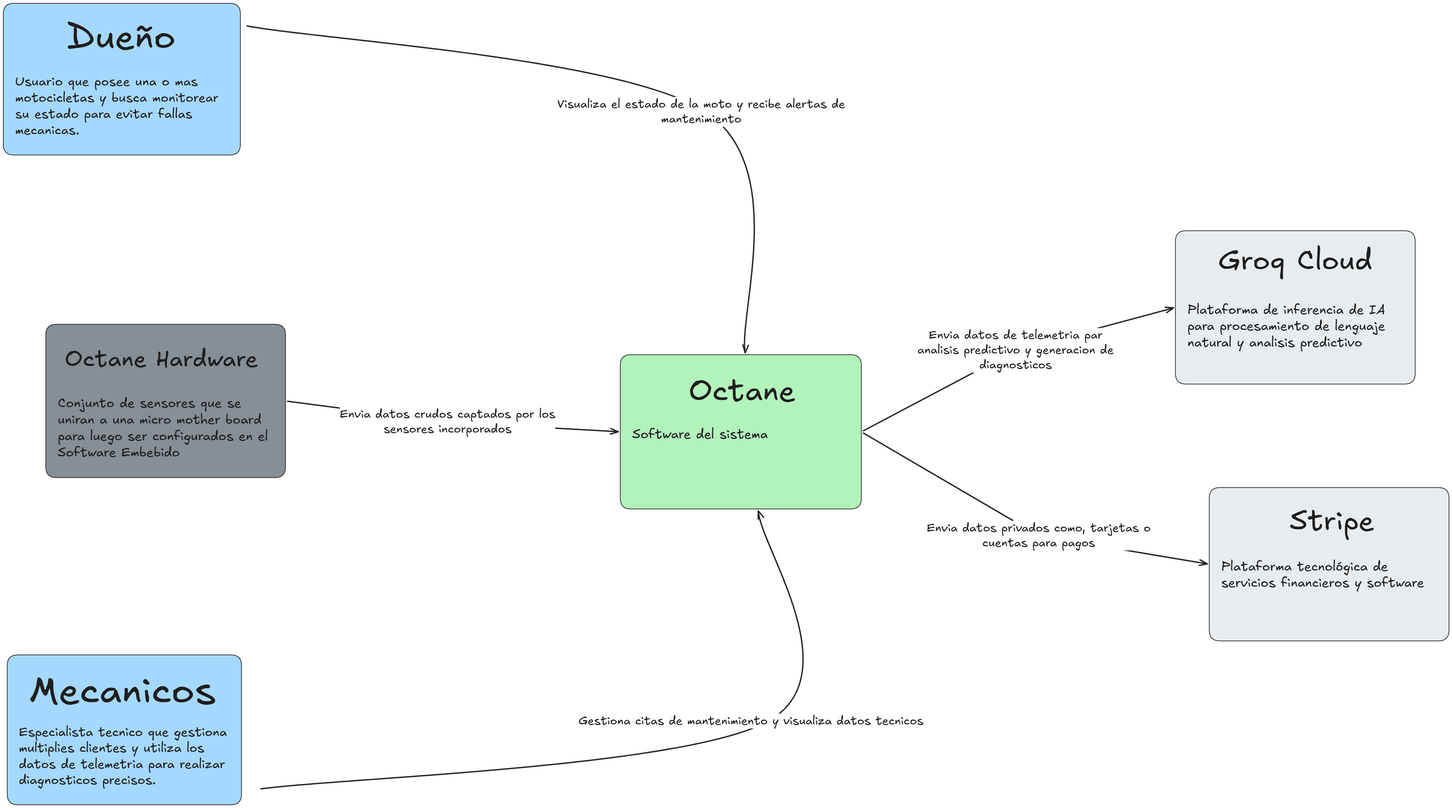
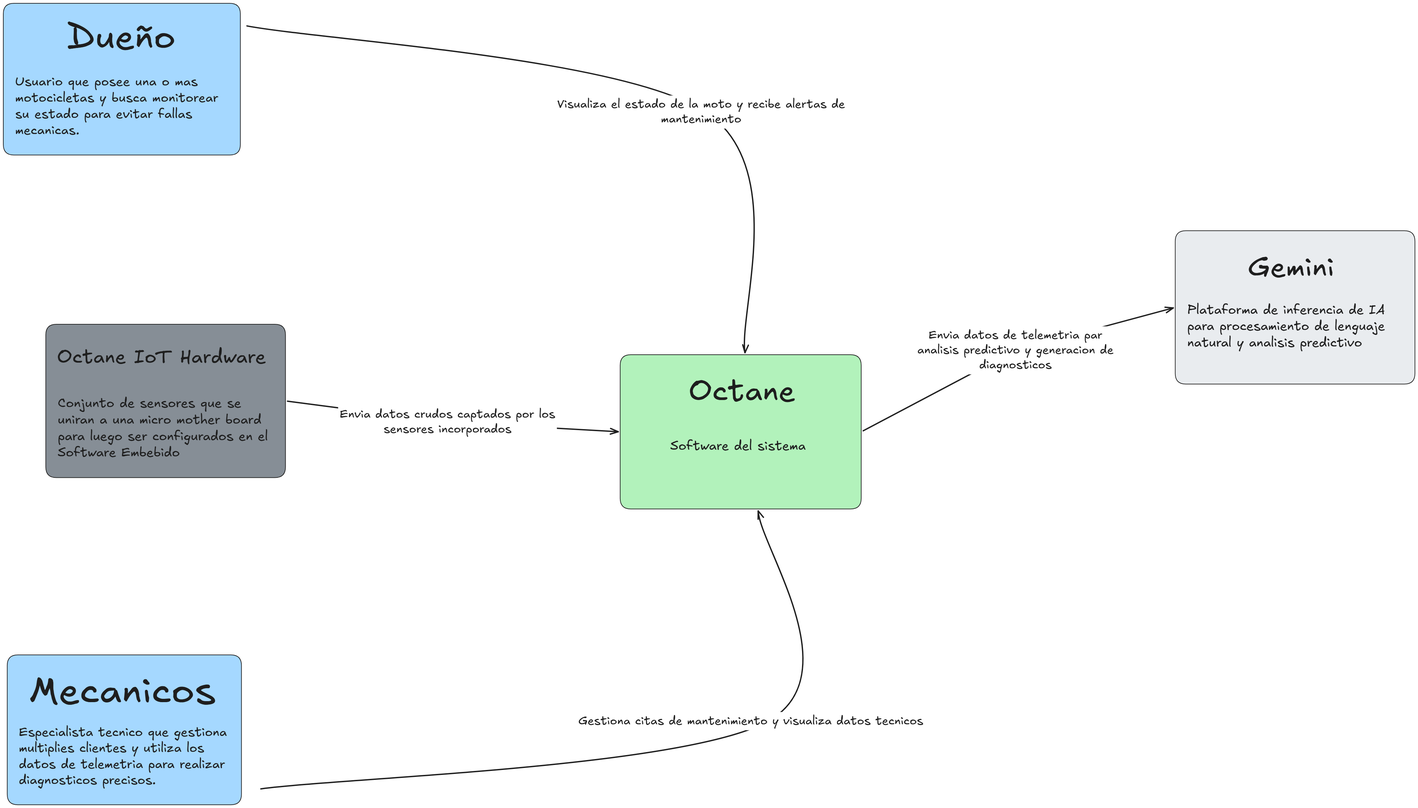
feat(Services Documentation Evidence for Sprint Review): added service documentation and c4 model fixed

diff --git a/README.md b/README.md
@@ -166,173 +166,181 @@ Distribución de Commits por Integrante:
 
 **Contenido**
 
-* [Student Outcome](#student-outcome)
-* [Capítulo I: Introducción](#capítulo-i-introducción)
-  * [1.1. Startup Profile](#11-startup-profile)
-    * [1.1.1. Descripción de la Startup](#111-descripción-de-la-startup)
-    * [1.1.2. Perfiles de integrantes del equipo](#112-perfiles-de-integrantes-del-equipo)
-  * [1.2. Solution Profile](#12-solution-profile)
-    * [1.2.1. Antecedentes y problemática](#121-antecedentes-y-problemática)
-    * [1.2.2. Lean UX Process](#122-lean-ux-process)
-      * [1.2.2.1. Lean UX Problem Statements](#1221-lean-ux-problem-statements)
-      * [1.2.2.2. Lean UX Assumptions](#1222-lean-ux-assumptions)
-      * [1.2.2.3. Lean UX Hypothesis Statements](#1223-lean-ux-hypothesis-statements)
-      * [1.2.2.4. Lean UX Canvas](#1224-lean-ux-canvas)
-  * [1.3. Segmentos objetivo](#13-segmentos-objetivo)
-* [Capítulo II: Requirements Elicitation & Analysis](#capítulo-ii-requirements-elicitation--analysis)
-  * [2.1. Competidores](#21-competidores)
-    * [2.1.1. Análisis competitivo](#211-análisis-competitivo)
-    * [2.1.2. Estrategias y tácticas frente a competidores](#212-estrategias-y-tácticas-frente-a-competidores)
-  * [2.2. Entrevistas](#22-entrevistas)
-    * [2.2.1. Diseño de entrevistas](#221-diseño-de-entrevistas)
-    * [2.2.2. Registro de entrevistas](#222-registro-de-entrevistas)
-    * [2.2.3. Análisis de entrevistas](#223-análisis-de-entrevistas)
-  * [2.3. Needfinding](#23-needfinding)
-    * [2.3.1. User Personas](#231-user-personas)
-    * [2.3.2. User Task Matrix](#232-user-task-matrix)
-    * [2.3.3. Empathy Mapping](#233-empathy-mapping)
-    * [2.3.4. As-is Scenario Mapping](#234-as-is-scenario-mapping)
-  * [2.4. Ubiquitous Language](#24-ubiquitous-language)
-* [Capítulo III: Requirements Specification](#capítulo-iii-requirements-specification)
-  * [3.1. To-Be Scenario Mapping](#31-to-be-scenario-mapping)
-  * [3.2. User Stories](#32-user-stories)
-  * [3.3. Impact Mapping](#33-impact-mapping)
-  * [3.4. Product Backlog](#34-product-backlog)
-* [Capítulo IV: Strategic-Level Software Design](#capítulo-iv-strategic-level-software-design)
-  * [4.1. Strategic-Level Attribute-Driven Design](#41-strategic-level-attribute-driven-design)
-    * [4.1.1. Design Purpose](#411-design-purpose)
-    * [4.1.2. Attribute-Driven Design Inputs](#412-attribute-driven-design-inputs)
-      * [4.1.2.1. Primary Functionality (Primary User Stories)](#4121-primary-functionality-primary-user-stories)
-      * [4.1.2.2. Quality Attribute Scenarios](#4122-quality-attribute-scenarios)
-      * [4.1.2.3. Constraints](#4123-constraints)
-    * [4.1.3. Architectural Drivers Backlog](#413-architectural-drivers-backlog)
-    * [4.1.4. Architectural Design Decisions](#414-architectural-design-decisions)
-    * [4.1.5. Quality Attribute Scenario Refinements](#415-quality-attribute-scenario-refinements)
-  * [4.2. Strategic-Level Domain-Driven Design](#42-strategic-level-domain-driven-design)
-    * [4.2.1. EventStorming](#421-eventstorming)
-    * [4.2.2. Candidate Context Discovery](#422-candidate-context-discovery)
-    * [4.2.3. Domain Message Flows Modeling](#423-domain-message-flows-modeling)
-    * [4.2.4. Bounded Context Canvases](#424-bounded-context-canvases)
-    * [4.2.5. Context Mapping](#425-context-mapping)
-  * [4.3. Software Architecture](#43-software-architecture)
-    * [4.3.1. Software Architecture System Landscape Diagram](#431-software-architecture-system-landscape-diagram)
-    * [4.3.2. Software Architecture Context Level Diagrams](#432-software-architecture-context-level-diagrams)
-    * [4.3.3. Software Architecture Container Level Diagrams](#433-software-architecture-container-level-diagrams)
-    * [4.3.4. Software Architecture Deployment Diagrams](#434-software-architecture-deployment-diagrams)
-* [Capítulo V: Tactical-Level Software Design](#capítulo-v-tactical-level-software-design)
-  * [5.1. Bounded Context: Identity Access Management](#51-bounded-context-identity-access-management)
-    * [5.1.1. Domain Layer](#511-domain-layer)
-    * [5.1.2. Interface Layer](#512-interface-layer)
-    * [5.1.3. Application Layer](#513-application-layer)
-    * [5.1.4. Infrastructure Layer](#514-infrastructure-layer)
-    * [5.1.5. Bounded Context Software Architecture Component Level Diagrams](#515-bounded-context-software-architecture-component-level-diagrams)
-    * [5.1.6. Bounded Context Software Architecture Code Level Diagrams](#516-bounded-context-software-architecture-code-level-diagrams)
-      * [5.1.6.1. Bounded Context Domain Layer Class Diagrams](#5161-bounded-context-domain-layer-class-diagrams)
-      * [5.1.6.2. Bounded Context Database Design Diagram](#5162-bounded-context-database-design-diagram)
-  * [5.2. Bounded Context: Reports](#52-bounded-context-reports)
-    * [5.2.1. Domain Layer](#521-domain-layer)
-    * [5.2.2. Interface Layer](#522-interface-layer)
-    * [5.2.3. Application Layer](#523-application-layer)
-    * [5.2.4. Infrastructure Layer](#524-infrastructure-layer)
-    * [5.2.5. Bounded Context Software Architecture Component Level Diagrams](#525-bounded-context-software-architecture-component-level-diagrams)
-    * [5.2.6. Bounded Context Software Architecture Code Level Diagrams](#526-bounded-context-software-architecture-code-level-diagrams)
-      * [5.2.6.1. Bounded Context Domain Layer Class Diagrams](#5261-bounded-context-domain-layer-class-diagrams)
-      * [5.2.6.2. Bounded Context Database Design Diagram](#5262-bounded-context-database-design-diagram)
-  * [5.3. Bounded Context: Assignments](#53-bounded-context-assignments)
-    * [5.3.1. Domain Layer](#531-domain-layer)
-    * [5.3.2. Interface Layer](#532-interface-layer)
-    * [5.3.3. Application Layer](#533-application-layer)
-    * [5.3.4. Infrastructure Layer](#534-infrastructure-layer)
-    * [5.3.5. Bounded Context Software Architecture Component Level Diagrams](#535-bounded-context-software-architecture-component-level-diagrams)
-    * [5.3.6. Bounded Context Software Architecture Code Level Diagrams](#536-bounded-context-software-architecture-code-level-diagrams)
-      * [5.3.6.1. Bounded Context Domain Layer Class Diagrams](#5361-bounded-context-domain-layer-class-diagrams)
-      * [5.3.6.2. Bounded Context Database Design Diagram](#5362-bounded-context-database-design-diagram)
-  * [5.4. Bounded Context: Maintenance](#54-bounded-context-maintenance)
-    * [5.4.1. Domain Layer](#541-domain-layer)
-    * [5.4.2. Interface Layer](#542-interface-layer)
-    * [5.4.3. Application Layer](#543-application-layer)
-    * [5.4.4. Infrastructure Layer](#544-infrastructure-layer)
-    * [5.4.5. Bounded Context Software Architecture Component Level Diagrams](#545-bounded-context-software-architecture-component-level-diagrams)
-    * [5.4.6. Bounded Context Software Architecture Code Level Diagrams](#546-bounded-context-software-architecture-code-level-diagrams)
-      * [5.4.6.1. Bounded Context Domain Layer Class Diagrams](#5461-bounded-context-domain-layer-class-diagrams)
-      * [5.4.6.2. Bounded Context Database Design Diagram](#5462-bounded-context-database-design-diagram)
-  * [5.5. Bounded Context: Vehicle Wellness](#55-bounded-context-vehicle-wellness)
-    * [5.5.1 Domain Layer](#551-domain-layer)
-    * [5.5.2 Interface Layer](#552-interface-layer)
-    * [5.5.3 Application Layer](#553-application-layer)
-    * [5.5.4 Infrastructure Layer](#554-infrastructure-layer)
-    * [5.5.5 Bounded Context Software Architecture Component level Diagrams](#555-bounded-context-software-architecture-component-level-diagrams)
-    * [5.5.6 Bounded Context Software Architecture Code level Diagrams](#556-bounded-context-software-architecture-code-level-diagrams)
-      * [5.5.6.1 Bounded Context Domain Layer Class Diagrams](#5561-bounded-context-domain-layer-class-diagrams)
-      * [5.5.6.2 Bounded Context Database Design Diagram](#5562-bounded-context-database-design-diagram)
-  * [5.6. Bounded Context: Vehicle Management](#56-bounded-context-vehicle-management)
-    * [5.6.1. Domain Layer](#561-domain-layer)
-    * [5.6.2. Interface Layer](#562-interface-layer)
-    * [5.6.3. Application Layer](#563-application-layer)
-    * [5.6.4. Infrastructure Layer](#564-infrastructure-layer)
-    * [5.6.5. Bounded Context Software Architecture Component Level Diagrams](#565-bounded-context-software-architecture-component-level-diagrams)
-    * [5.6.6. Bounded Context Software Architecture Code Level Diagrams](#566-bounded-context-software-architecture-code-level-diagrams)
-      * [5.6.6.1. Bounded Context Domain Layer Class Diagrams](#5661-bounded-context-domain-layer-class-diagrams)
-      * [5.6.6.2. Bounded Context Database Design Diagram](#5662-bounded-context-database-design-diagram)
-  * [5.7. Bounded Context: Device Intelligence](#57-bounded-context-device-intelligence)
-    * [5.7.1. Domain Layer](#571-domain-layer)
-    * [5.7.2. Interface Layer](#572-interface-layer)
-    * [5.7.3. Application Layer](#573-application-layer)
-    * [5.7.4. Infrastructure Layer](#574-infrastructure-layer)
-    * [5.7.5. Bounded Context Software Architecture Component Level Diagrams](#575-bounded-context-software-architecture-component-level-diagrams)
-    * [5.7.6. Bounded Context Software Architecture Code Level Diagrams](#576-bounded-context-software-architecture-code-level-diagrams)
-      * [5.7.6.1. Bounded Context Domain Layer Class Diagrams](#5761-bounded-context-domain-layer-class-diagrams)
-      * [5.7.6.2. Bounded Context Database Design Diagram](#5762-bounded-context-database-design-diagram)
-  * [5.8. Bounded Context: Support & Ticket Management](#58-bounded-context-support--ticket-management)
-    * [5.8.1. Domain Layer](#581-domain-layer)
-    * [5.8.2. Application Layer](#582-application-layer)
-    * [5.8.3. Infrastructure Layer](#583-infrastructure-layer)
-    * [5.8.4. Interface Layer](#584-interface-layer)
-    * [5.8.5. Bounded Context Software Architecture Component Level Diagrams](#585-bounded-context-software-architecture-component-level-diagrams)
-    * [5.8.6. Bounded Context Software Architecture Code Level Diagrams](#586-bounded-context-software-architecture-code-level-diagrams)
-      * [5.8.6.1. Bounded Context Domain Layer Class Diagrams](#5861-bounded-context-domain-layer-class-diagrams)
-      * [5.8.6.2. Bounded Context Database Design Diagram](#5862-bounded-context-database-design-diagram)
-* [Capitulo VI: Solution UX Design](#capitulo-vi-solution-ux-design-)
-  * [6.1. Style Guidelines](#61-style-guidelines)
-    * [6.1.1 General Style Guidelines](#611-general-style-guidelines)
-    * [6.1.2 Web, Mobile & Devices Style Guidelines](#612-web-mobile--devices-style-guidelines)
-  * [6.2. Information Architecture](#62-information-architecture)
-    * [6.2.1. Labeling Systems](#621-labeling-systems)
-    * [6.2.2. Searching Systems](#622-searching-systems)
-    * [6.2.3. SEO Tags and Meta Tags](#623-seo-tags-and-meta-tags)
-    * [6.2.4. Navigation Systems](#624-navigation-systems)
-  * [6.3. Landing Page UI Design](#63-landing-page-ui-design)
-    * [6.3.1. Landing Page Wireframe](#631-landing-page-wireframe)
-    * [6.3.2. Landing Page Mock-up](#632-landing-page-mock-up)
-  * [6.4. Applications UX/UI Design](#64-applications-uxui-design)
-    * [6.4.1. Applications Wireframes](#641-applications-wireframes)
-    * [6.4.2. Applications Wireflow Diagrams](#642-applications-wireflow-diagrams)
-    * [6.4.3. Applications Mock-ups](#643-applications-mock-ups)
-  * [6.5 Applications Prototyping](#65-applications-prototyping)
-* [Capítulo VII: Production Implementation Validation & Deploymeny](#capítulo-vii-production-implementation-validation--deploymeny)
-  * [7.1 Software Configuration Management](#71-software-configuration-management)
-    * [7.1.1 Software Development Environment Configuration](#711-software-development-environment-configuration)
-    * [7.1.2 Source Code Management](#712-source-code-management)
-    * [7.1.3 Source Code Style Guide & Conventions](#713-source-code-style-guide--conventions)
-    * [7.1.4 Software Deployment Configuration](#714-software-deployment-configuration)
-  * [7.2 Solution Implementation](#72-solution-implementation)
-    * [7.2.1 Sprint 1](#721-sprint-1)
-      * [7.2.1.1 Sprint Planning 1](#7211-sprint-planning-1)
-      * [7.2.1.2 Sprint Backlog 1](#7212-sprint-backlog-1)
-      * [7.2.1.3 Development Evidence for Sprint Review](#7213-development-evidence-for-sprint-review)
-      * [7.2.1.4 Testing Suite Evidence for Sprint Review](#7214-testing-suite-evidence-for-sprint-review)
-      * [7.2.1.5 Execution Evidence for Sprint Review](#7215-execution-evidence-for-sprint-review)
-      * [7.2.1.6 Services Documentation Evidence for Sprint Review](#7216-services-documentation-evidence-for-sprint-review)
-      * [7.2.1.7 Software Deployment Evidence for Sprint Review](#7217-software-deployment-evidence-for-sprint-review)
-      * [7.2.1.8 Team Collaboration Insights During Sprint](#7218-team-collaboration-insights-during-sprint)
-  * [7.3 Validation Interviews](#73-validation-interviews)
-    * [7.3.1 Diseño de Entrevistas](#731-diseño-de-entrevistas)
-    * [7.3.2 Registro de Entrevistas](#732-registro-de-entrevistas)
-    * [7.3.3 Evaluaciones segun heurísticas](#733-evaluaciones-segun-heurísticas)
-  * [7.4 Video About-the-Product](#74-video-about-the-product)
-* [Conclusiones](#conclusiones)
-* [Video About The Team](#video-about-the-team)
-* [Bibliografía](#bibliografía)
+- [Student Outcome](#student-outcome)
+- [Capítulo I: Introducción](#capítulo-i-introducción)
+  - [1.1. Startup Profile](#11-startup-profile)
+    - [1.1.1. Descripción de la Startup](#111-descripción-de-la-startup)
+    - [1.1.2. Perfiles de integrantes del equipo](#112-perfiles-de-integrantes-del-equipo)
+  - [1.2. Solution Profile](#12-solution-profile)
+    - [1.2.1. Antecedentes y problemática](#121-antecedentes-y-problemática)
+    - [1.2.2. Lean UX Process](#122-lean-ux-process)
+      - [1.2.2.1. Lean UX Problem Statements](#1221-lean-ux-problem-statements)
+      - [1.2.2.2. Lean UX Assumptions](#1222-lean-ux-assumptions)
+      - [1.2.2.3. Lean UX Hypothesis Statements](#1223-lean-ux-hypothesis-statements)
+      - [1.2.2.4. Lean UX Canvas](#1224-lean-ux-canvas)
+  - [1.3. Segmentos objetivo](#13-segmentos-objetivo)
+- [Capítulo II: Requirements Elicitation \& Analysis](#capítulo-ii-requirements-elicitation--analysis)
+  - [2.1. Competidores](#21-competidores)
+    - [2.1.1. Análisis competitivo](#211-análisis-competitivo)
+    - [2.1.2. Estrategias y tácticas frente a competidores](#212-estrategias-y-tácticas-frente-a-competidores)
+  - [2.2. Entrevistas](#22-entrevistas)
+    - [2.2.1. Diseño de entrevistas](#221-diseño-de-entrevistas)
+    - [2.2.2. Registro de entrevistas](#222-registro-de-entrevistas)
+    - [2.2.3. Análisis de entrevistas](#223-análisis-de-entrevistas)
+  - [2.3. Needfinding](#23-needfinding)
+    - [2.3.1. User Personas](#231-user-personas)
+    - [2.3.2. User Task Matrix](#232-user-task-matrix)
+    - [2.3.3. Empathy Mapping](#233-empathy-mapping)
+    - [2.3.4. As-is Scenario Mapping](#234-as-is-scenario-mapping)
+  - [2.4. Ubiquitous Language](#24-ubiquitous-language)
+- [Capítulo III: Requirements Specification](#capítulo-iii-requirements-specification)
+  - [3.1. To-Be Scenario Mapping](#31-to-be-scenario-mapping)
+  - [3.2. User Stories](#32-user-stories)
+  - [3.3. Impact Mapping](#33-impact-mapping)
+  - [3.4. Product Backlog](#34-product-backlog)
+- [Capítulo IV: Strategic-Level Software Design](#capítulo-iv-strategic-level-software-design)
+  - [4.1. Strategic-Level Attribute-Driven Design](#41-strategic-level-attribute-driven-design)
+    - [4.1.1. Design Purpose](#411-design-purpose)
+    - [4.1.2. Attribute-Driven Design Inputs](#412-attribute-driven-design-inputs)
+      - [4.1.2.1. Primary Functionality (Primary User Stories)](#4121-primary-functionality-primary-user-stories)
+      - [4.1.2.2. Quality Attribute Scenarios](#4122-quality-attribute-scenarios)
+      - [4.1.2.3. Constraints](#4123-constraints)
+    - [4.1.3. Architectural Drivers Backlog](#413-architectural-drivers-backlog)
+    - [4.1.4. Architectural Design Decisions](#414-architectural-design-decisions)
+    - [4.1.5. Quality Attribute Scenario Refinements](#415-quality-attribute-scenario-refinements)
+  - [4.2. Strategic-Level Domain-Driven Design](#42-strategic-level-domain-driven-design)
+    - [4.2.1. EventStorming](#421-eventstorming)
+    - [4.2.2. Candidate Context Discovery](#422-candidate-context-discovery)
+    - [4.2.3. Domain Message Flows Modeling](#423-domain-message-flows-modeling)
+    - [4.2.4. Bounded Context Canvases](#424-bounded-context-canvases)
+    - [4.2.5. Context Mapping](#425-context-mapping)
+  - [4.3. Software Architecture](#43-software-architecture)
+    - [4.3.1. Software Architecture System Landscape Diagram](#431-software-architecture-system-landscape-diagram)
+    - [4.3.2. Software Architecture Context Level Diagrams](#432-software-architecture-context-level-diagrams)
+    - [4.3.3. Software Architecture Container Level Diagrams](#433-software-architecture-container-level-diagrams)
+    - [4.3.4. Software Architecture Deployment Diagrams](#434-software-architecture-deployment-diagrams)
+- [Capítulo V: Tactical-Level Software Design](#capítulo-v-tactical-level-software-design)
+  - [5.1. Bounded Context: Identity Access Management](#51-bounded-context-identity-access-management)
+    - [5.1.1. Domain Layer](#511-domain-layer)
+    - [5.1.2. Interface Layer](#512-interface-layer)
+    - [5.1.3. Application Layer](#513-application-layer)
+    - [5.1.4. Infrastructure Layer](#514-infrastructure-layer)
+    - [5.1.5. Bounded Context Software Architecture Component Level Diagrams](#515-bounded-context-software-architecture-component-level-diagrams)
+    - [5.1.6. Bounded Context Software Architecture Code Level Diagrams](#516-bounded-context-software-architecture-code-level-diagrams)
+      - [5.1.6.1. Bounded Context Domain Layer Class Diagrams](#5161-bounded-context-domain-layer-class-diagrams)
+      - [5.1.6.2. Bounded Context Database Design Diagram](#5162-bounded-context-database-design-diagram)
+  - [5.2. Bounded Context: Reports](#52-bounded-context-reports)
+    - [5.2.1. Domain Layer](#521-domain-layer)
+    - [5.2.2. Interface Layer](#522-interface-layer)
+    - [5.2.3. Application Layer](#523-application-layer)
+    - [5.2.4. Infrastructure Layer](#524-infrastructure-layer)
+    - [5.2.5. Bounded Context Software Architecture Component Level Diagrams](#525-bounded-context-software-architecture-component-level-diagrams)
+    - [5.2.6. Bounded Context Software Architecture Code Level Diagrams](#526-bounded-context-software-architecture-code-level-diagrams)
+      - [5.2.6.1. Bounded Context Domain Layer Class Diagrams](#5261-bounded-context-domain-layer-class-diagrams)
+      - [5.2.6.2. Bounded Context Database Design Diagram](#5262-bounded-context-database-design-diagram)
+  - [5.3. Bounded Context: Assignments](#53-bounded-context-assignments)
+    - [5.3.1. Domain Layer](#531-domain-layer)
+    - [5.3.2. Interface Layer](#532-interface-layer)
+    - [5.3.3. Application Layer](#533-application-layer)
+    - [5.3.4. Infrastructure Layer](#534-infrastructure-layer)
+    - [5.3.5. Bounded Context Software Architecture Component Level Diagrams](#535-bounded-context-software-architecture-component-level-diagrams)
+    - [5.3.6. Bounded Context Software Architecture Code Level Diagrams](#536-bounded-context-software-architecture-code-level-diagrams)
+      - [5.3.6.1. Bounded Context Domain Layer Class Diagrams](#5361-bounded-context-domain-layer-class-diagrams)
+      - [5.3.6.2. Bounded Context Database Design Diagram](#5362-bounded-context-database-design-diagram)
+  - [5.4. Bounded Context: Maintenance](#54-bounded-context-maintenance)
+    - [5.4.1. Domain Layer](#541-domain-layer)
+    - [5.4.2. Interface Layer](#542-interface-layer)
+    - [5.4.3. Application Layer](#543-application-layer)
+    - [5.4.4. Infrastructure Layer](#544-infrastructure-layer)
+    - [5.4.5. Bounded Context Software Architecture Component Level Diagrams](#545-bounded-context-software-architecture-component-level-diagrams)
+    - [5.4.6. Bounded Context Software Architecture Code Level Diagrams](#546-bounded-context-software-architecture-code-level-diagrams)
+      - [5.4.6.1. Bounded Context Domain Layer Class Diagrams](#5461-bounded-context-domain-layer-class-diagrams)
+      - [5.4.6.2. Bounded Context Database Design Diagram](#5462-bounded-context-database-design-diagram)
+  - [5.5. Bounded Context: Vehicle Wellness](#55-bounded-context-vehicle-wellness)
+    - [5.5.1 Domain Layer](#551-domain-layer)
+    - [5.5.2 Interface Layer](#552-interface-layer)
+    - [5.5.3 Application Layer](#553-application-layer)
+    - [5.5.4 Infrastructure Layer](#554-infrastructure-layer)
+    - [5.5.5 Bounded Context Software Architecture Component level Diagrams](#555-bounded-context-software-architecture-component-level-diagrams)
+    - [5.5.6 Bounded Context Software Architecture Code level Diagrams](#556-bounded-context-software-architecture-code-level-diagrams)
+      - [5.5.6.1 Bounded Context Domain Layer Class Diagrams](#5561-bounded-context-domain-layer-class-diagrams)
+      - [5.5.6.2 Bounded Context Database Design Diagram](#5562-bounded-context-database-design-diagram)
+  - [5.6. Bounded Context: Vehicle Management](#56-bounded-context-vehicle-management)
+    - [5.6.1. Domain Layer](#561-domain-layer)
+    - [5.6.2. Interface Layer](#562-interface-layer)
+    - [5.6.3. Application Layer](#563-application-layer)
+    - [5.6.4. Infrastructure Layer](#564-infrastructure-layer)
+    - [5.6.5. Bounded Context Software Architecture Component Level Diagrams](#565-bounded-context-software-architecture-component-level-diagrams)
+    - [5.6.6. Bounded Context Software Architecture Code Level Diagrams](#566-bounded-context-software-architecture-code-level-diagrams)
+      - [5.6.6.1. Bounded Context Domain Layer Class Diagrams](#5661-bounded-context-domain-layer-class-diagrams)
+      - [5.6.6.2. Bounded Context Database Design Diagram](#5662-bounded-context-database-design-diagram)
+  - [5.7. Bounded Context: Device Intelligence](#57-bounded-context-device-intelligence)
+    - [5.7.1. Domain Layer](#571-domain-layer)
+    - [5.7.2. Interface Layer](#572-interface-layer)
+    - [5.7.3. Application Layer](#573-application-layer)
+    - [5.7.4. Infrastructure Layer](#574-infrastructure-layer)
+    - [5.7.5. Bounded Context Software Architecture Component Level Diagrams](#575-bounded-context-software-architecture-component-level-diagrams)
+    - [5.7.6. Bounded Context Software Architecture Code Level Diagrams](#576-bounded-context-software-architecture-code-level-diagrams)
+      - [5.7.6.1. Bounded Context Domain Layer Class Diagrams](#5761-bounded-context-domain-layer-class-diagrams)
+      - [5.7.6.2. Bounded Context Database Design Diagram](#5762-bounded-context-database-design-diagram)
+  - [5.8. Bounded Context: Support \& Ticket Management](#58-bounded-context-support--ticket-management)
+    - [5.8.1. Domain Layer](#581-domain-layer)
+    - [5.8.2. Application Layer](#582-application-layer)
+    - [5.8.3. Infrastructure Layer](#583-infrastructure-layer)
+    - [5.8.4. Interface Layer](#584-interface-layer)
+    - [5.8.5. Bounded Context Software Architecture Component Level Diagrams](#585-bounded-context-software-architecture-component-level-diagrams)
+    - [5.8.6. Bounded Context Software Architecture Code Level Diagrams](#586-bounded-context-software-architecture-code-level-diagrams)
+      - [5.8.6.1. Bounded Context Domain Layer Class Diagrams](#5861-bounded-context-domain-layer-class-diagrams)
+      - [5.8.6.2. Bounded Context Database Design Diagram](#5862-bounded-context-database-design-diagram)
+- [Capitulo VI: Solution UX Design](#capitulo-vi-solution-ux-design)
+  - [6.1. Style Guidelines](#61-style-guidelines)
+    - [6.1.1 General Style Guidelines](#611-general-style-guidelines)
+    - [6.1.2 Web, Mobile \& Devices Style Guidelines](#612-web-mobile--devices-style-guidelines)
+  - [6.2. Information Architecture](#62-information-architecture)
+    - [6.2.1. Labeling Systems](#621-labeling-systems)
+    - [6.2.2. Searching Systems](#622-searching-systems)
+    - [6.2.3. SEO Tags and Meta Tags](#623-seo-tags-and-meta-tags)
+    - [6.2.4. Navigation Systems](#624-navigation-systems)
+  - [6.3. Landing Page UI Design](#63-landing-page-ui-design)
+    - [6.3.1. Landing Page Wireframe](#631-landing-page-wireframe)
+    - [6.3.2. Landing Page Mock-up](#632-landing-page-mock-up)
+  - [6.4. Applications UX/UI Design](#64-applications-uxui-design)
+    - [6.4.1. Applications Wireframes](#641-applications-wireframes)
+    - [6.4.2. Applications Wireflow Diagrams](#642-applications-wireflow-diagrams)
+    - [6.4.3. Applications Mock-ups](#643-applications-mock-ups)
+  - [6.5 Applications Prototyping](#65-applications-prototyping)
+- [Capítulo VII: Production Implementation Validation \& Deploymeny](#capítulo-vii-production-implementation-validation--deploymeny)
+  - [7.1 Software Configuration Management](#71-software-configuration-management)
+    - [7.1.1 Software Development Environment Configuration](#711-software-development-environment-configuration)
+    - [7.1.2 Source Code Management](#712-source-code-management)
+    - [7.1.3 Source Code Style Guide \& Conventions](#713-source-code-style-guide--conventions)
+    - [7.1.4 Software Deployment Configuration](#714-software-deployment-configuration)
+  - [7.2 Solution Implementation](#72-solution-implementation)
+    - [7.2.1 Sprint 1](#721-sprint-1)
+      - [7.2.1.1 Sprint Planning 1](#7211-sprint-planning-1)
+      - [7.2.1.2 Sprint Backlog 1](#7212-sprint-backlog-1)
+      - [7.2.1.3 Development Evidence for Sprint Review](#7213-development-evidence-for-sprint-review)
+      - [7.2.1.4 Testing Suite Evidence for Sprint Review](#7214-testing-suite-evidence-for-sprint-review)
+      - [7.2.1.5 Execution Evidence for Sprint Review](#7215-execution-evidence-for-sprint-review)
+      - [7.2.1.6 Services Documentation Evidence for Sprint Review](#7216-services-documentation-evidence-for-sprint-review)
+      - [7.2.1.7 Software Deployment Evidence for Sprint Review](#7217-software-deployment-evidence-for-sprint-review)
+      - [7.2.1.8 Team Collaboration Insights During Sprint](#7218-team-collaboration-insights-during-sprint)
+    - [7.2.2 Sprint 2](#722-sprint-2)
+    - [7.2.2.1 Sprint Planning 2](#7221-sprint-planning-2)
+    - [7.2.2.2 Sprint Backlog 2](#7222-sprint-backlog-2)
+      - [7.2.2.4 Testing Suite Evidence for Sprint Review](#7224-testing-suite-evidence-for-sprint-review)
+      - [7.2.2.5 Execution Evidence for Sprint Review](#7225-execution-evidence-for-sprint-review)
+      - [7.2.2.6 Services Documentation Evidence for Sprint Review](#7226-services-documentation-evidence-for-sprint-review)
+      - [7.2.2.7 Software Deployment Evidence for Sprint Review](#7227-software-deployment-evidence-for-sprint-review)
+      - [7.2.2.8 Team Collaboration Insights during Sprint](#7228-team-collaboration-insights-during-sprint)
+  - [7.3 Validation Interviews](#73-validation-interviews)
+    - [7.3.1 Diseño de Entrevistas](#731-diseño-de-entrevistas)
+    - [7.3.2 Registro de Entrevistas](#732-registro-de-entrevistas)
+    - [7.3.3 Evaluaciones segun heurísticas](#733-evaluaciones-segun-heurísticas)
+  - [7.4 Video About-the-Product](#74-video-about-the-product)
+- [Conclusiones](#conclusiones)
+- [Video About The Team](#video-about-the-team)
+- [Bibliografía](#bibliografía)
 
 # Student Outcome
 
@@ -5410,6 +5418,21 @@ Feature: Manejo de errores del agente IA
 ```
 
 ---
+#### 7.2.2.5 Execution Evidence for Sprint Review
+
+#### 7.2.2.6 Services Documentation Evidence for Sprint Review
+Durante este Sprint, se logró la documentación y despliegue de varios Endpoints correspondientes al bounded context Wellness implementado por el equipo. Se utilizó OpenAPI (Swagger) para describir de forma estructurada los servicios Web desarrollados. A continuación, se presenta la relación de los Endpoints, las acciones soportadas y la respectiva documentación disponible.  
+Esta documentación incluye los verbos HTTP utilizados, sintaxis de llamadas, parámetros, ejemplos de respuesta, así como capturas de la interacción con los Web Services utilizando datos de muestra. También se proporciona el URL del repositorio de los Web Services y los commit IDs correspondientes al trabajo realizado en la documentación durante este Sprint.
+|Bounded Context|Endpoint|Acción|Verbo HTTP|Parámetros|Ejemplo de Respuesta|Documentación / URL|
+|-|-|-|-|-|-|-|
+|Wellness|/api/v1/vehicles/{vehicleId}/wellness-summary|Genera un resumen de salud (wellness summary) para un vehículo específico.|POST|vehicleId (Path)|{"id": 101, "vehicleId": 5, "status": "Good", "aiRecommendations": "Cambio de aceite sugerido en 500km.", "generatedAt": "2026-07-07T12:00:00Z"}|`http://localhost:8080/api/v1/vehicles/{vehicleId}/wellness-summary`|
+|Wellness|/api/v1/vehicles/{vehicleId}/wellness-summary|Obtiene el último resumen de salud generado para un vehículo específico.|GET|vehicleId (Path)|{"id": 101, "vehicleId": 5, "status": "Good", "aiRecommendations": "Cambio de aceite sugerido en 500km.", "generatedAt": "2026-07-07T12:00:00Z"}|`http://localhost:8080/api/v1/vehicles/{vehicleId}/wellness-summary`|
+|Wellness|/api/v1/vehicles/owner/{ownerId}/wellness-summaries|Obtiene los resúmenes de salud de todos los vehículos que pertenecen a un dueño específico.|GET|ownerId (Path)|[{"id": 101, "vehicleId": 5, "status": "Good", "aiRecommendations": "..."}, {"id": 102, "vehicleId": 12, "status": "Attention Required", "aiRecommendations": "..."}]|`http://localhost:8080/api/v1/vehicles/owner/{ownerId}/wellness-summaries`|
+
+#### 7.2.2.7 Software Deployment Evidence for Sprint Review
+
+#### 7.2.2.8 Team Collaboration Insights during Sprint
+
 
 ## 7.3 Validation Interviews
 
